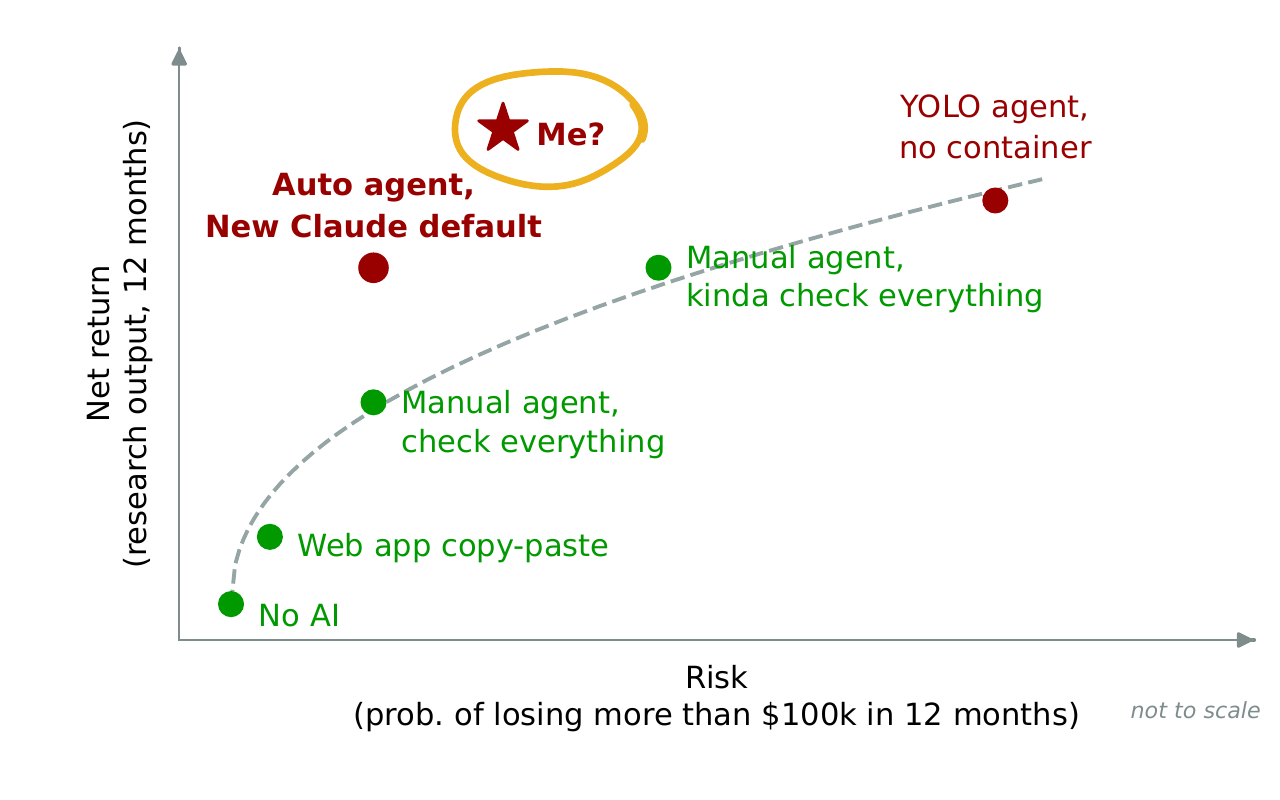
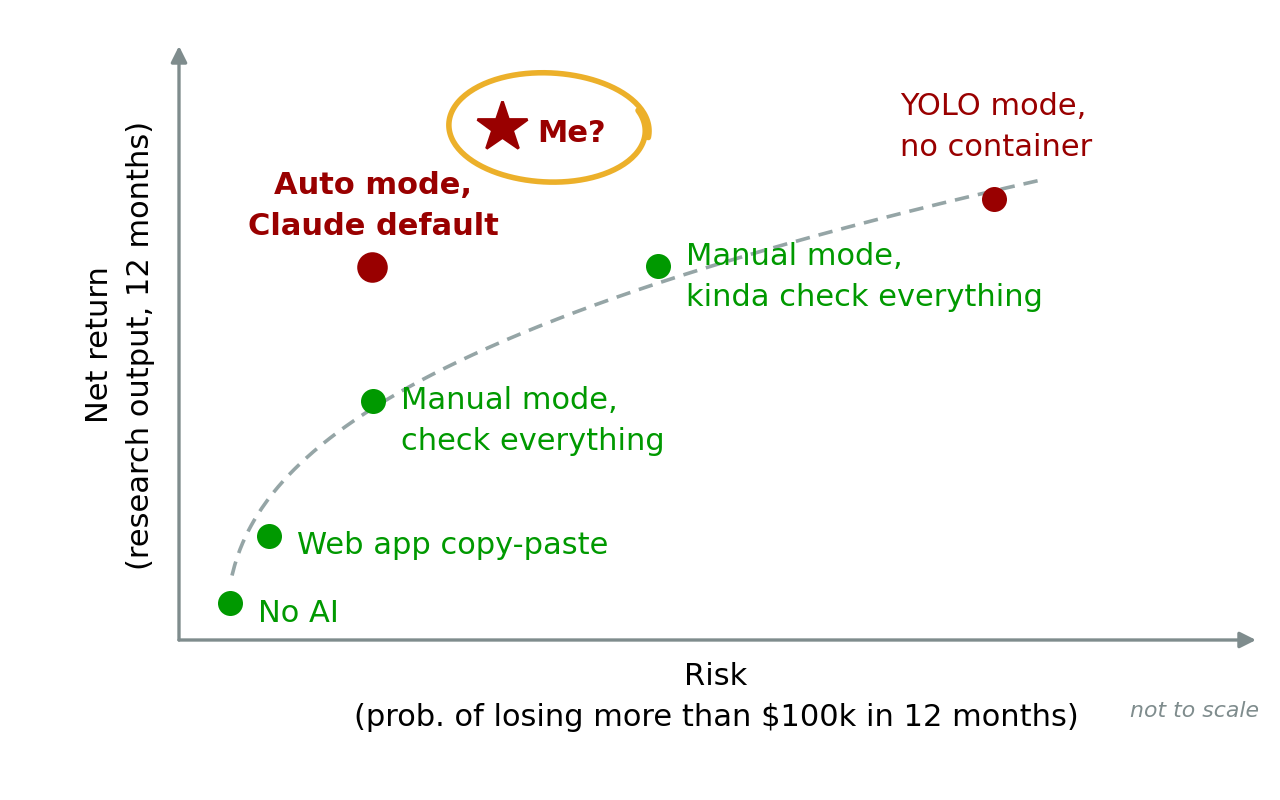
Risk-return figure: add source script, use mode terminology
The PNG had no committed source, so add docs/images/risk-return.py to
regenerate it. Drop "New" from "Claude default" and relabel agents as
auto, manual and YOLO modes; update the README alt text to match.

Claude-Session: https://claude.ai/code/session_01377FhLHLzVmk5Vo4P7LPXB

diff --git a/docs/images/risk-return.py b/docs/images/risk-return.py
@@ -1,0 +1,82 @@
+"""Draw the README's risk-return sketch.
+
+Run from anywhere (needs matplotlib and numpy):
+    python docs/images/risk-return.py
+
+Inputs: none; every label and position is set below. Coordinates are
+pixels of the 1280x800 output, origin at the top left, so a point can be
+moved by reading its position off the current PNG.
+
+Output: docs/images/risk-return.png (next to this script), overwritten.
+"""
+
+from pathlib import Path
+
+import matplotlib.pyplot as plt
+import numpy as np
+from matplotlib.patches import FancyArrowPatch
+
+OUT = Path(__file__).with_name("risk-return.png")
+W, H, DPI = 1280, 800, 200
+
+GREEN = "#009900"
+RED = "#990000"
+AXIS = "#7f8c8d"
+CURVE = "#95a5a6"
+CIRCLE = "#ecb02a"
+FONT = 11
+
+# Points on the frontier: (x, y, label, label y offset); labels sit to the right.
+FRONTIER = [
+    (230, 603, "No AI", 11),
+    (269, 536, "Web app copy-paste", 10),
+    (373, 401, "Manual mode,\ncheck everything", 20),
+    (658, 266, "Manual mode,\nkinda check everything", 11),
+]
+
+fig = plt.figure(figsize=(W / DPI, H / DPI), dpi=DPI)
+ax = fig.add_axes([0, 0, 1, 1])
+ax.set_xlim(0, W)
+ax.set_ylim(H, 0)
+ax.axis("off")
+
+# Axes with arrowheads.
+for start, end in [((179, 640), (179, 46)), ((179, 640), (1256, 640))]:
+    ax.add_patch(FancyArrowPatch(start, end, arrowstyle="-|>", mutation_scale=12,
+                                 color=AXIS, lw=1.2, shrinkA=0, shrinkB=0))
+ax.text(120, 345, "Net return\n(research output, 12 months)", rotation=90,
+        ha="center", va="center", fontsize=FONT, linespacing=1.5)
+ax.text(716, 697, "Risk\n(prob. of losing more than $100k in 12 months)",
+        ha="center", va="center", fontsize=FONT, linespacing=1.5)
+ax.text(1195, 711, "not to scale", ha="center", va="center",
+        fontsize=FONT * 0.72, style="italic", color=AXIS)
+
+# Frontier: a concave curve through the non-YOLO points.
+x = np.linspace(232, 1043, 300)
+y = 640 - 31.5 * (x - 226) ** 0.4
+ax.plot(x, y, ls=(0, (4, 2.5)), color=CURVE, lw=1.3, zorder=1)
+
+for px, py, label, dy in FRONTIER:
+    ax.plot(px, py, "o", ms=8, color=GREEN, zorder=3)
+    ax.text(px + 28, py + dy, label, ha="left", va="center", fontsize=FONT,
+            color=GREEN, linespacing=1.5)
+
+ax.plot(994, 199, "o", ms=8, color=RED, zorder=3)
+ax.text(900, 127, "YOLO mode,\nno container", ha="left", va="center",
+        fontsize=FONT, color=RED, linespacing=1.5)
+
+ax.plot(372, 267, "o", ms=10, color=RED, zorder=3)
+ax.text(373, 206, "Auto mode,\nClaude default", ha="center", va="center",
+        fontsize=FONT, color=RED, weight="bold", linespacing=1.5)
+
+# "Me?" with a hand-drawn circle.
+ax.plot(502, 127, "*", ms=19, color=RED, zorder=3)
+ax.text(537, 134, "Me?", ha="left", va="center", fontsize=FONT, color=RED,
+        weight="bold")
+t = np.linspace(-0.1 * np.pi, 2.05 * np.pi, 200)
+wobble = 1 + 0.05 * np.sin(2 * t + 1) + 0.02 * (t - np.pi) / np.pi
+ax.plot(548 + 95 * wobble * np.cos(t), 128 + 57 * wobble * np.sin(t),
+        color=CIRCLE, lw=2, solid_capstyle="round", zorder=2)
+
+fig.savefig(OUT, dpi=DPI, facecolor="white")
+print(f"wrote {OUT}")

diff --git a/README.md b/README.md
@@ -17,7 +17,7 @@ actual research work).
   Dated release tags (`vYYYY.MM.DD`) will mark notable checkpoints.
 
 <p align="center">
-  <img src="docs/images/risk-return.png" alt="AI usage is a risk-return tradeoff: sketch of research return against risk. A YOLO agent in a container aims above the frontier traced by no AI, web copy-paste, manual agents and a YOLO agent with no container." width="600">
+  <img src="docs/images/risk-return.png" alt="AI usage is a risk-return tradeoff: sketch of research return against risk. YOLO mode in a container aims above the frontier traced by no AI, web copy-paste, manual mode and YOLO mode with no container." width="600">
 </p>
 
 
